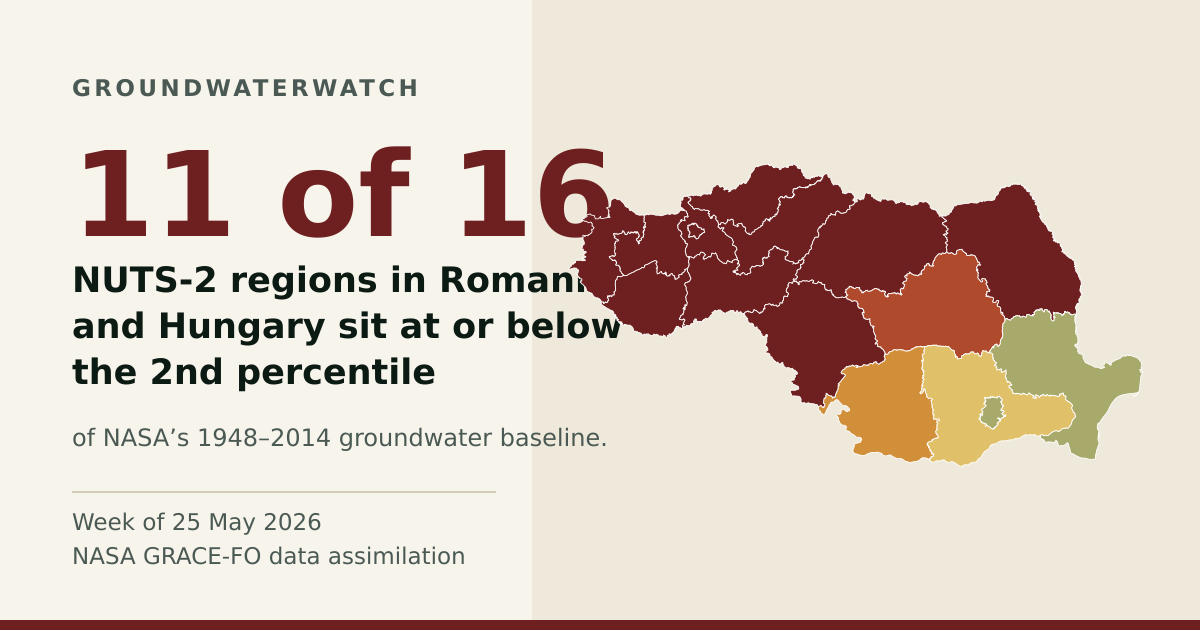
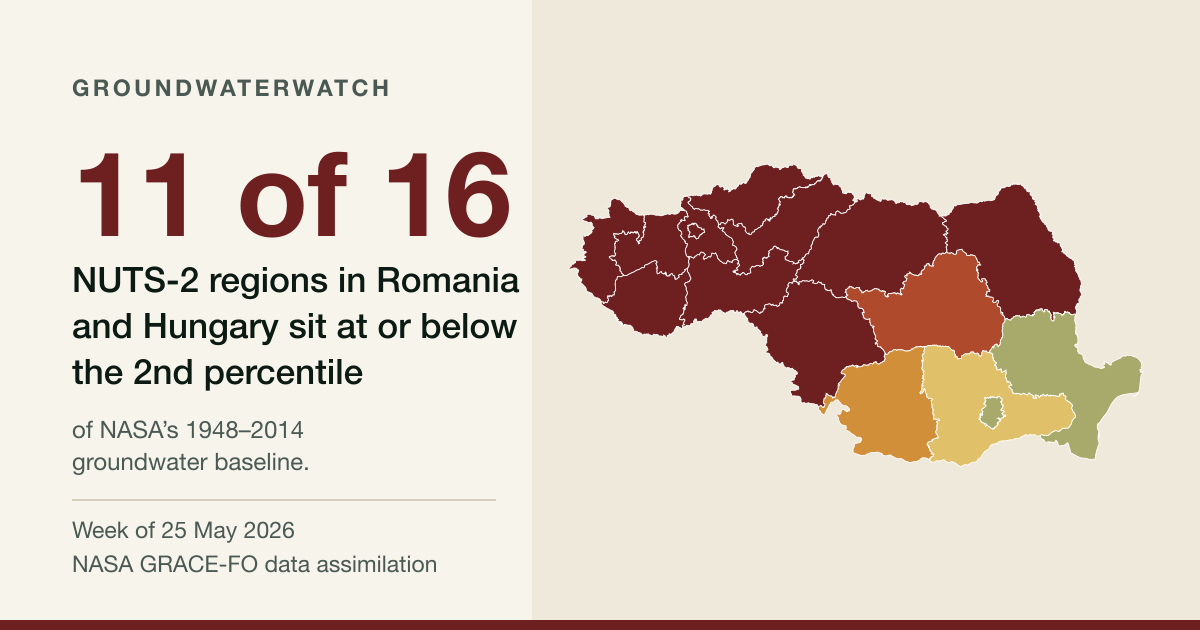
fix(card): wrap the baseline note so it stays inside the text panel
"of NASA's 1948-2014 groundwater baseline." rendered 474px wide from x=72,
ending at x=546 — 14px past the map panel edge at 532, so the tail of it sat
on top of the map background.

Split at a phrase boundary into "of NASA's 1948-2014" / "groundwater
baseline." (x=302 / x=307), and shifted the rule and the two source lines
down 8px to keep the vertical rhythm even. Clearance to the bottom bar is
49px, was 57px.

Measured by rendering the text layer with the map group stripped, so the
map's antialiased edge cannot be mistaken for glyph ink. Also rendered all
17 possible values of "N of 16": widest is 508px, 24px clear of the panel,
so no future week's count can overflow there either.

diff --git a/pipeline/src/pipeline/share_card.py b/pipeline/src/pipeline/share_card.py
@@ -85,6 +85,9 @@ def build_svg(timeseries: dict, mapdata: dict) -> tuple[str, str]:
   <rect x="{map_x - 24}" y="0" width="{WIDTH - map_x + 24}" height="{HEIGHT}" fill="{MAP_BG}"/>
   <rect x="0" y="{HEIGHT - 10}" width="{WIDTH}" height="10" fill="#6e1f1f"/>
 
+  <!-- Every line is wrapped by hand: SVG <text> does not reflow, and the text
+       column has to stay left of the map panel, which starts at map_x - 24.
+       Do not re-join these lines without re-measuring the rendered width. -->
   <g font-family="{escape(FONT)}">
     <text x="72" y="96" font-size="23" font-weight="700" letter-spacing="3.4" fill="{INK_SOFT}">GROUNDWATERWATCH</text>
 
@@ -93,11 +96,12 @@ def build_svg(timeseries: dict, mapdata: dict) -> tuple[str, str]:
     <text x="72" y="338" font-size="35" font-weight="600" fill="{INK}">and Hungary sit at or below</text>
     <text x="72" y="384" font-size="35" font-weight="600" fill="{INK}">the 2nd percentile</text>
 
-    <text x="72" y="446" font-size="24" fill="{INK_SOFT}">of NASA&#8217;s 1948&#8211;2014 groundwater baseline.</text>
+    <text x="72" y="438" font-size="24" fill="{INK_SOFT}">of NASA&#8217;s 1948&#8211;2014</text>
+    <text x="72" y="470" font-size="24" fill="{INK_SOFT}">groundwater baseline.</text>
 
-    <line x1="72" y1="492" x2="496" y2="492" stroke="{LINE}" stroke-width="2"/>
-    <text x="72" y="530" font-size="23" fill="{INK_SOFT}">Week of {escape(pretty_week)}</text>
-    <text x="72" y="564" font-size="23" fill="{INK_SOFT}">NASA GRACE-FO data assimilation</text>
+    <line x1="72" y1="500" x2="496" y2="500" stroke="{LINE}" stroke-width="2"/>
+    <text x="72" y="538" font-size="23" fill="{INK_SOFT}">Week of {escape(pretty_week)}</text>
+    <text x="72" y="572" font-size="23" fill="{INK_SOFT}">NASA GRACE-FO data assimilation</text>
   </g>
 
   <g transform="translate({map_x}, {map_y:.1f}) scale({scale})">
